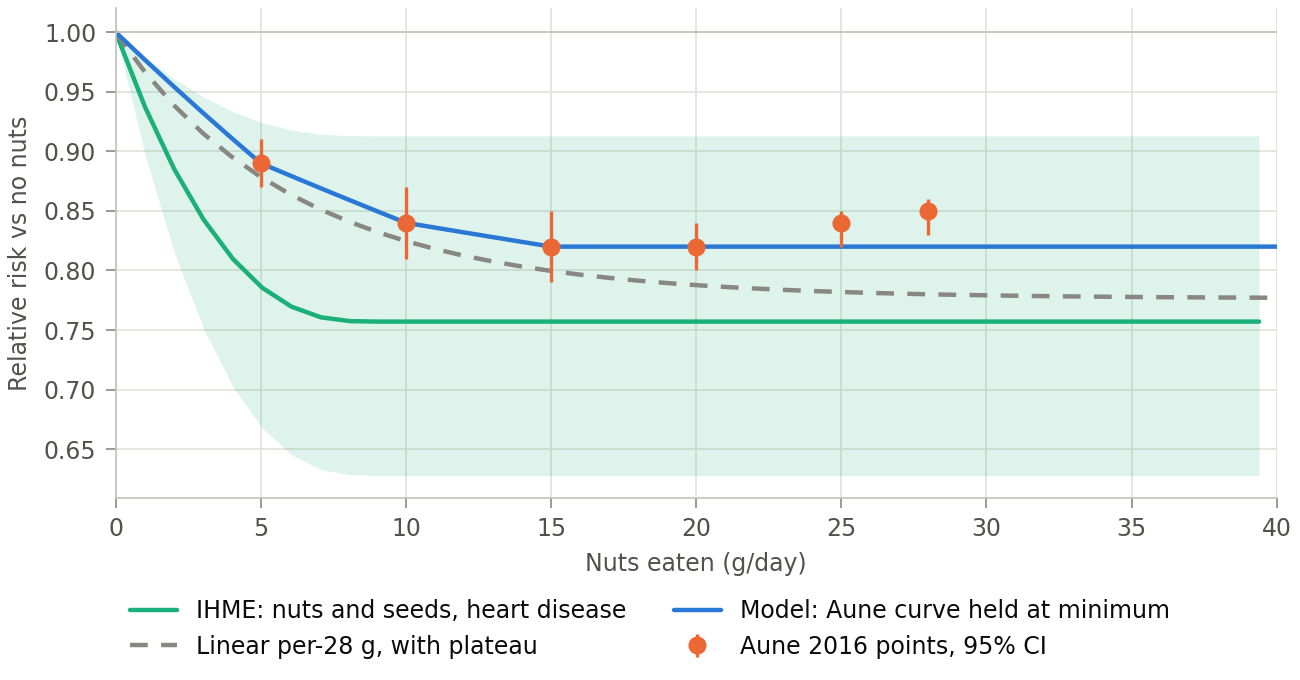
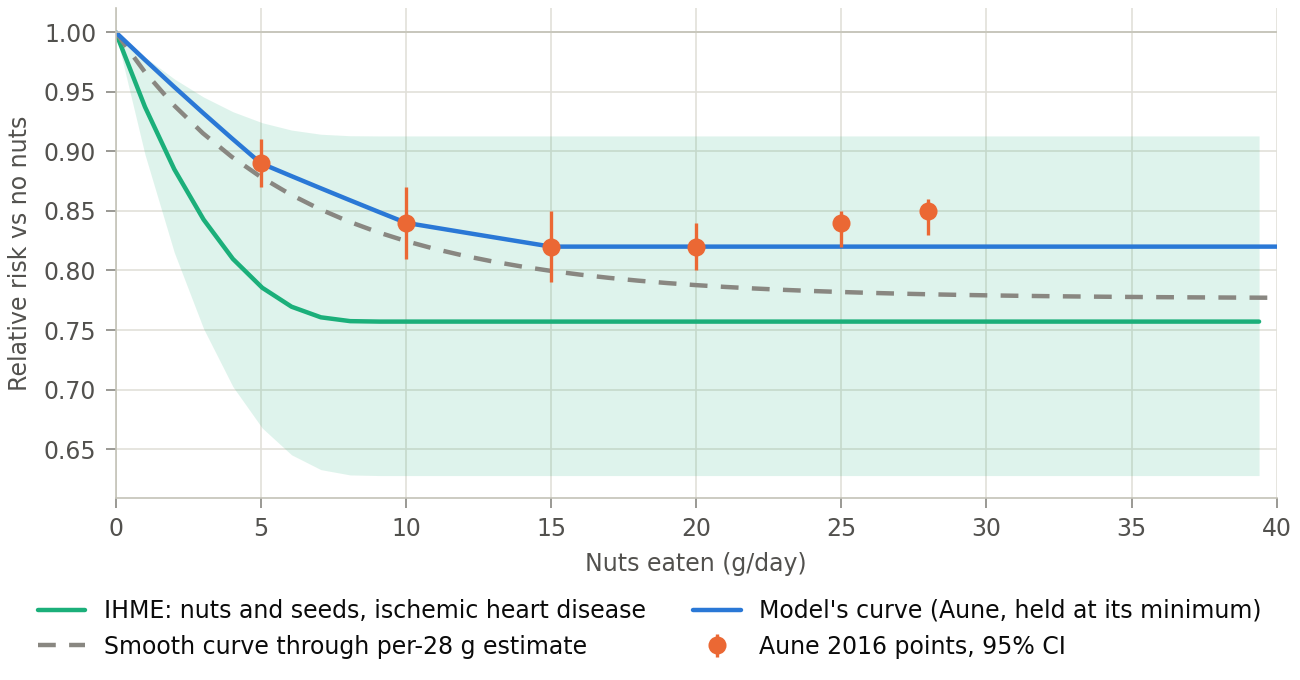
Draw face value in ink and relabel the dose-curve and marginal figures
- Scenario panels (by dose, by age, by background) draw face value in STYLE ink:
  orange and blue mean women and men in the scenario and cost figures, and the
  captions now call it the dark line.
- The marginal figure's per-panel x label is "Grams already eaten a day" (the two
  long labels collided); the caption carries the 10 g step.
- Dose-curve legend: "IHME: nuts and seeds, ischemic heart disease", "Model's curve
  (Aune, held at its minimum)", and the dashed "Smooth curve through per-28 g
  estimate", the sensitivity's name in the text.

Checked all six PNGs by eye: no overlapping labels or legends.

Changed region(s): [[0.0308, 0.8647, 0.4923, 0.9882], [0.5231, 0.8647, 0.9538, 0.9882]]

diff --git a/src/whatnut/pipeline.py b/src/whatnut/pipeline.py
@@ -921,7 +921,7 @@ def fig_dose_curves(res: dict, path: Path, plt) -> None:
         [p["rr"] for p in bop],
         color=s["aqua"],
         lw=s["line_width"],
-        label="IHME: nuts and seeds, heart disease",
+        label="IHME: nuts and seeds, ischemic heart disease",
     )
     ax.plot(
         g,
@@ -929,14 +929,14 @@ def fig_dose_curves(res: dict, path: Path, plt) -> None:
         color=s["ink_muted"],
         lw=s["line_width"],
         linestyle=(0, (4, 3)),
-        label="Linear per-28 g, with plateau",
+        label="Smooth curve through per-28 g estimate",
     )
     ax.plot(
         g,
         fd["curves"]["main"],
         color=s["blue"],
         lw=s["line_width"],
-        label="Model: Aune curve held at minimum",
+        label="Model's curve (Aune, held at its minimum)",
     )
     pts = [p for p in fd["aune_points"] if p["lo"] is not None]
     ax.errorbar(
@@ -965,7 +965,8 @@ def fig_dose_curves(res: dict, path: Path, plt) -> None:
 
 def _scenario_panels(fd: dict, xs: list, xlabel: str, path: Path, plt) -> None:
     """Women and men side by side: the LDL-pathway range (coronary to all
-    deaths, means), the main calibration's 80% interval and mean, and face value."""
+    deaths, means), the main calibration's 80% interval and mean, and face value
+    in ink (orange and blue mean the sexes in the other figures)."""
     s = STYLE
     fig, axes = plt.subplots(
         1, 2, figsize=(s["width_in"], s["height_in"]), sharey=True, layout="constrained"
@@ -1000,7 +1001,7 @@ def _scenario_panels(fd: dict, xs: list, xlabel: str, path: Path, plt) -> None:
         ax.plot(
             xs,
             _days(d["face_value"]["mean"]),
-            color=s["orange"],
+            color=s["ink"],
             lw=s["line_width"],
             label=SCENARIO_LABEL["face_value"],
         )
@@ -1036,14 +1037,10 @@ def fig_days_by_age(res: dict, path: Path, plt) -> None:
 
 
 def fig_marginal(res: dict, path: Path, plt) -> None:
+    """The step (fd['step_g'] grams) is in the caption; the panel label names only
+    the axis, so the two panels' labels fit side by side."""
     fd = res["figures"]["marginal_by_background"]
-    _scenario_panels(
-        fd,
-        fd["backgrounds"],
-        f"Nuts already eaten (g/day), before adding {fd['step_g']} g/day",
-        path,
-        plt,
-    )
+    _scenario_panels(fd, fd["backgrounds"], "Grams already eaten a day", path, plt)
 
 
 def fig_scenarios(res: dict, path: Path, plt) -> None:
